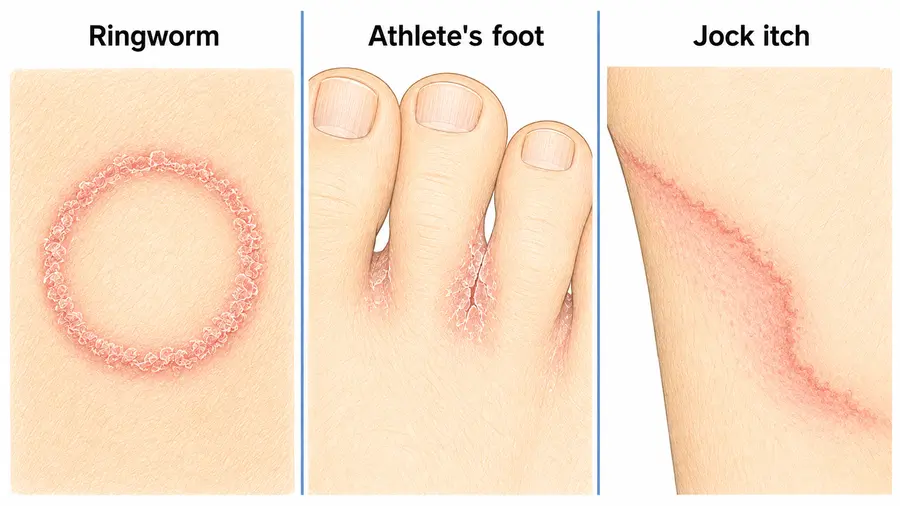
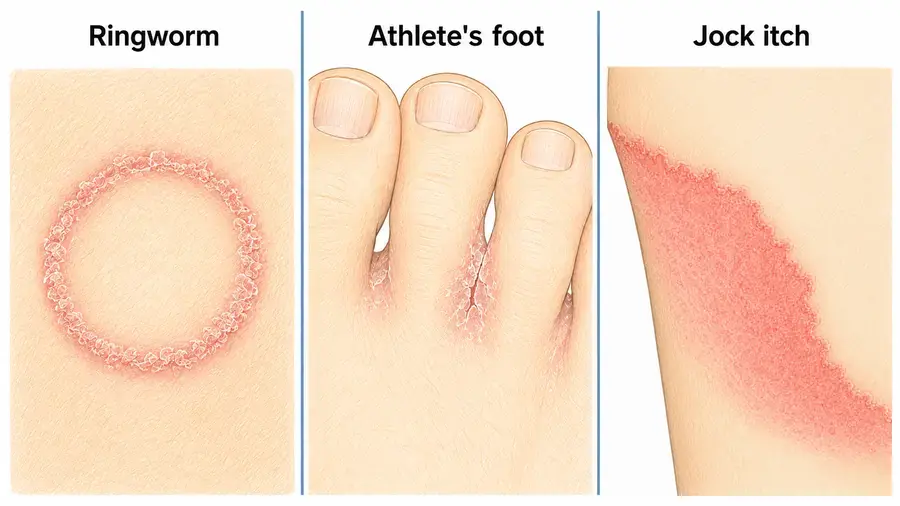
Land the corrected jock-itch panel
Resolves the Codex catch from PR #52. The redo widens the rash into a
clearly broader filled plaque that keeps its scaly demarcated border, adds
enough inner-thigh context to place it anatomically, and stays modest.

Verified the way the defect demanded: checked at phone width first, where it
now reads as a plaque rather than a line. The original passed a 3x check and
failed at display size, which is the size that counts.

Panels 1 and 2 were preserved — a pixel-diff over the left 600 px shows
0.44% change, consistent with recompression rather than a redraw, so the
accepted ringworm ring and athlete's-foot panels are untouched.

Recorded the standing lesson in docs/HANDOFF.md: judge recognition images at
the size students see them, not zoomed in. Magnifying proves a detail
exists, not that anyone will see it. Every diagram in this project was
checked the magnified way, so a display-size sweep across the landed images
is worth doing, with the multi-panel comparison charts as the likeliest
candidates. Also noted the method that worked here: ship a render at display
size alongside the source file so the failure mode is visible rather than
described.

Gates: validate:content 54/54 0 errors, build clean, skin-conditions
verified 6/6 rendering with zero placeholders, no console errors.

Claude-Session: https://claude.ai/code/session_01Caqwh4KEm6rymWthKUQfsq

Changed region(s): [[0.6533, 0.2372, 0.9956, 0.919]]

diff --git a/docs/IMAGE-BATCHES.md b/docs/IMAGE-BATCHES.md
@@ -814,32 +814,36 @@ lesion at all, since it is about the setting. `locker-room-habits` keeps the
 student fully dressed in practice clothing with two clearly separated sets of
 belongings.
 
-**QUEUED IMPROVEMENT — the jock-itch panel (Codex, PR #52).** Codex called
-the third panel of `fungal-infection-comparison` "a thin diagonal line...
-more like a scratch or scar" than a demarcated rash. Checked both ways
-before responding, and the size you look at decides the answer:
-- **At 3x magnification the panel is good** — there is a real plaque, a
-  broader pinkish field behind a scalloped, well-demarcated active border
-  following the crease. That is a textbook tinea cruris edge, not a scratch.
-- **At true display size, and more so at mobile width, it is not.** The
-  plaque field flattens into the surrounding skin and what dominates is a
-  curving red line. Since that is the size students actually see, Codex's
-  concern is the one that counts, and the initial 3x check flattered the
-  image.
+**RESOLVED — the jock-itch panel (Codex catch on PR #52, corrected
+2026-08-03).** Codex called the third panel of
+`fungal-infection-comparison` "a thin diagonal line... more like a scratch or
+scar" than a demarcated rash. Checking it both ways showed the viewing size
+decides the answer:
+- **At 3x magnification the original was fine** — a real plaque behind a
+  scalloped, well-demarcated border.
+- **At true display size, and more so at mobile width, it was not.** The
+  plaque flattened into surrounding skin and a curving red line dominated.
+  Since that is the size students see, that was the read that counted, and
+  the original 3x check had flattered the image.
 
-Contributing cause: the brief asked for modesty in strong terms — "a cropped
-upper-inner-thigh patch only, no genitals, no underwear detail" — and the
-delivery honoured that at the cost of anatomical context. There is a real
-tension here between modesty and recognisability in a school app, and this
-one landed too far toward modesty.
+Contributing cause was in the brief, not the delivery: it demanded modesty in
+strong terms ("a cropped upper-inner-thigh patch only, no genitals, no
+underwear detail") and the art honoured that at the cost of anatomical
+context. The tension between modesty and recognisability is real in a school
+app, and the first attempt sat too far toward modesty.
 
-**Not held, because nothing is false** — the panel is labelled "Jock itch,"
-the edge is demarcated, the redness is correct, and the lesson text carries
-the location. **Queued to ride back with the batch 20 delivery** at no extra
-round trip, the way the batch-16 dental fix rode with batch 17. Redo note:
-keep the modest crop, but widen the rash into a clearly broader plaque with
-a visible scaly border, and add just enough inner-thigh/groin-crease context
-to place it — no genitals, no underwear.
+**The correction is verified good.** The redo widens the rash into a clearly
+broader filled plaque that still carries its scaly demarcated border, adds
+enough inner-thigh context to place it, and stays modest. It was checked at
+phone width first, where it now reads as a plaque rather than a line. Panels
+1 and 2 were preserved: a pixel-diff over the left 600 px shows **0.44%
+change**, consistent with recompression rather than a redraw, so the accepted
+ringworm ring and athlete's-foot panels are untouched.
+
+**Method note worth keeping:** the correction request shipped a render of the
+panel *at phone width* alongside the source file, so the failure mode was
+visible rather than described. That is a good pattern for any
+"looks-fine-magnified" defect.
 
 **One accepted imprecision:** the MRSA panel's second icon reads "Painful"
 where the lesson says "painful **out of proportion to its size**" — the

diff --git a/docs/HANDOFF.md b/docs/HANDOFF.md
@@ -340,14 +340,20 @@ inherited one-liner nearly produced a wrong image — the other was the bonking
 annotation in a slot `description` (batch 18). Audit inherited text against
 the lesson body before writing any brief from it.
 
-⚠ **One queued improvement:** the jock-itch panel of
-`skin-conditions-fungal-infection-comparison` reads as a red line rather
-than a demarcated plaque **at display size** (it looks fine magnified, which
-is how it initially passed). Not false and not held — queued to ride back
-with the batch 20 delivery. Keep the modest crop; widen the rash into a
-clearly broader plaque with a visible scaly border and just enough
-inner-thigh context to place it. Lesson: **judge recognition images at the
-size students see them, not zoomed in.**
+✅ **The jock-itch panel is corrected and landed (2026-08-03).** It now reads
+as a broad demarcated plaque at phone width rather than a red line, with
+panels 1 and 2 preserved (0.44% pixel-diff over the left 600 px, i.e.
+recompression only).
+
+**Standing lesson from it: judge recognition images at the size students see
+them, not zoomed in.** Cropping and magnifying proves a detail exists; it
+does not prove a student will see it. Every diagram in this project was
+checked the magnified way, so a display-size sweep across the landed images
+is worth doing — the multi-panel comparison charts are the likeliest
+candidates, since each panel gets a third of 900 px and far less on mobile.
+When requesting a fix for this class of defect, ship a render at display size
+alongside the source file so the failure mode is visible rather than
+described.
 
 **Next:** batch 20 = **sports-psychology** (5) — the last strand. It carries
 the heaviest content flag: recognize / support / refer only, with **no
